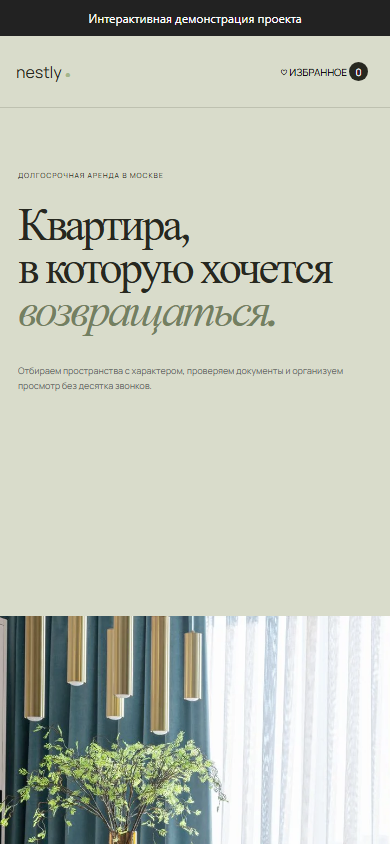
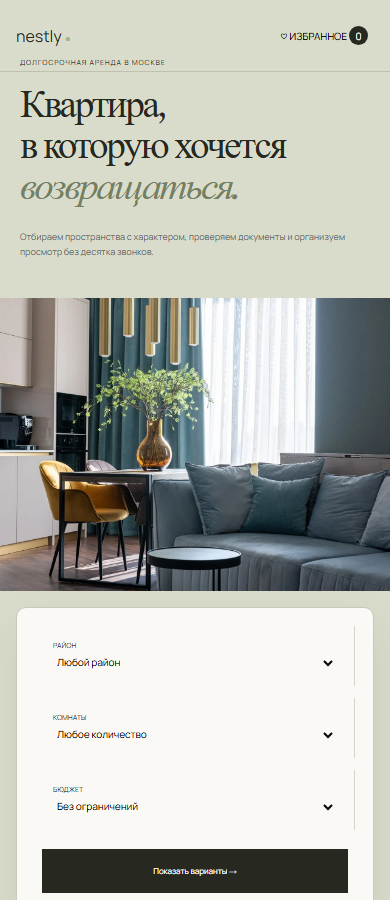
Polish project presentation, mobile layout and browser access

diff --git a/public/styles.css b/public/styles.css
@@ -1,7 +1,9 @@
-:root{font-family:Manrope,sans-serif;color:#272820;background:#f2f0e9;--olive:#738061;--ink:#272820;--line:#d6d3c9}*{box-sizing:border-box}html{scroll-behavior:smooth}body{margin:0;min-width:320px}button,input,select,textarea{font:inherit}.logo{font:600 20px}.logo span{color:#a4b58b;font-size:10px;margin-left:3px}body>header{position:absolute;z-index:3;left:0;right:0;height:72px;display:grid;grid-template-columns:1fr auto 1fr;align-items:center;padding:0 34px;border-bottom:1px solid #39392f2b}nav{display:flex;gap:27px}nav a,.saved{font-size:8px;text-transform:uppercase}.saved{justify-self:end;border:0;background:none}.saved i{display:inline-grid;place-items:center;width:19px;height:19px;border-radius:50%;background:var(--ink);color:white;font-style:normal}.menu{display:none}.hero{position:relative;display:grid;grid-template-columns:1fr 1fr;min-height:700px;background:#d9dccb}.hero-copy{padding:145px 6vw 130px}.hero small,.catalog small,.about small,dialog small{font-size:7px;letter-spacing:.13em}.hero h1{margin:25px 0;font:400 61px/.94 Newsreader;letter-spacing:-.055em}.hero h1 em{color:var(--olive);font-weight:400}.hero-copy p{max-width:430px;color:#66695f;font-size:9px;line-height:1.7}.hero-room{position:relative;overflow:hidden;background:linear-gradient(#d0d4ce 0 65%,#ae967d 66%)}.search{position:absolute;left:6vw;right:6vw;bottom:-38px;z-index:4;display:grid;grid-template-columns:1fr 1fr 1fr 170px;background:#faf9f5;border:1px solid #cac7bd;border-radius:10px;box-shadow:0 18px 45px #5e584c1d;overflow:hidden}.search label{display:grid;gap:5px;padding:15px 18px;border-right:1px solid var(--line);font-size:7px;text-transform:uppercase}.search select{border:0;background:none;outline:0;font-size:10px}.search button,.send{border:7px solid #faf9f5;background:var(--ink);color:white;font-size:8px}.catalog{padding:120px 34px 90px}.catalog>header{display:flex;justify-content:space-between;align-items:end;margin-bottom:35px}.catalog h2,.about h2{margin:8px 0 0;font:400 43px/.94 Newsreader}.catalog header p{color:#797b72;font-size:8px}.layout{display:grid;grid-template-columns:1.2fr .8fr;gap:15px}.listings{display:grid;grid-template-columns:1fr 1fr;gap:12px}.listing{border:1px solid var(--line);background:#fbfaf6;cursor:pointer}.listing-art{position:relative;height:220px;background:var(--accent);overflow:hidden}.listing-art>span{position:absolute;left:10px;bottom:10px;padding:5px 7px;border-radius:5px;background:#f7f4eddf;font-size:6px;text-transform:uppercase}.heart{position:absolute;right:10px;top:10px;width:28px;height:28px;border:0;border-radius:50%;background:#fffddd}.heart.active{background:#283028;color:white}.listing-info{padding:14px}.listing-info>small{color:#888a81;letter-spacing:0}.listing-info h3{margin:5px 0 15px;font:400 18px Newsreader}.specs{display:flex;gap:12px;padding:11px 0;border-top:1px solid #e3e0d8;color:#77796f;font-size:7px}.listing-foot{display:flex;justify-content:space-between;align-items:end}.listing-foot strong{font-size:12px}.listing-foot strong small{font-size:6px;font-weight:400}.listing-foot button{border:0;background:none;font-size:7px;text-decoration:underline}.map{position:sticky;top:15px;height:670px;border:1px solid var(--line);background:#d9dccf;overflow:hidden}.map:before{content:'';position:absolute;inset:0;background:repeating-linear-gradient(25deg,transparent 0 45px,#c5cabb 46px 48px),repeating-linear-gradient(110deg,transparent 0 65px,#cbd0c1 66px 68px)}.river{position:absolute;left:44%;top:-10%;width:20%;height:120%;background:#b9d0d0;transform:rotate(-13deg);border-left:5px solid #d8dccf;border-right:5px solid #d8dccf}.map>i{position:absolute;left:var(--x);top:var(--y);z-index:2;display:grid;place-items:center;width:32px;height:32px;border-radius:50% 50% 50% 4px;transform:rotate(-45deg);background:var(--ink);color:white;font-size:8px;font-style:normal}.map>i::first-letter{transform:rotate(45deg)}.map-label{position:absolute;z-index:1;color:#72786d;font-size:7px;letter-spacing:.15em}.map-label.one{left:12%;top:20%}.map-label.two{left:18%;top:58%}.map-label.three{right:8%;top:44%}.about{padding:100px 6vw;background:#2b352d;color:#eef0e9}.about h2{font-size:50px}.about h2 em{color:#aabc92}.about>div{display:grid;grid-template-columns:repeat(3,1fr);gap:45px;margin-top:65px}.about article{border-top:1px solid #59625b;padding-top:16px}.about article>span{font:italic 16px Newsreader;color:#aabc92}.about h3{margin:30px 0 8px;font:400 18px Newsreader}.about p{margin:0;color:#a1a8a2;font-size:8px;line-height:1.6}dialog{width:min(480px,calc(100% - 24px));border:0;border-radius:15px;padding:0;background:#f7f5ef}dialog::backdrop{background:#172019a3;backdrop-filter:blur(3px)}dialog form{position:relative;display:grid;gap:12px;padding:26px}dialog h2{margin:3px 0 15px;font:400 25px Newsreader}dialog label{display:grid;gap:5px;font-size:8px}dialog input,dialog textarea{border:1px solid var(--line);border-radius:7px;background:white;padding:10px;resize:vertical}.close{position:absolute;right:15px;top:10px;border:0;background:none;font-size:22px}.send{border:0;padding:12px}.success{min-height:12px;margin:0;color:#577158;font-size:8px}@media(max-width:800px){body>header{grid-template-columns:1fr auto;padding:0 16px}nav,.saved{display:none}.menu{display:block;border:0;background:none}.hero{grid-template-columns:1fr}.hero-copy{min-height:580px;padding:125px 18px}.hero h1{font-size:46px}.hero-room{min-height:520px}.search{left:14px;right:14px;grid-template-columns:1fr 1fr;bottom:-100px}.search button{min-height:58px}.catalog{padding:170px 14px 70px}.catalog>header{display:block}.layout{grid-template-columns:1fr}.listings{grid-template-columns:1fr}.listing-art{height:280px}.map{display:none}.about{padding:75px 18px}.about h2{font-size:39px}.about>div{grid-template-columns:1fr;gap:30px}}
+:root{font-family:Manrope,sans-serif;color:#272820;background:#f2f0e9;--olive:#738061;--ink:#272820;--line:#d6d3c9}*{box-sizing:border-box}html{scroll-behavior:smooth}body{margin:0;min-width:320px}button,input,select,textarea{font:inherit}.logo{font:600 20px}.logo span{color:#a4b58b;font-size:10px;margin-left:3px}body>header{position:absolute;z-index:3;left:0;right:0;height:72px;display:grid;grid-template-columns:1fr auto 1fr;align-items:center;padding:0 34px;border-bottom:1px solid #39392f2b}nav{display:flex;gap:27px}nav a,.saved{font-size:8px;text-transform:uppercase}.saved{justify-self:end;border:0;background:none}.saved i{display:inline-grid;place-items:center;width:19px;height:19px;border-radius:50%;background:var(--ink);color:white;font-style:normal}.menu{display:none}.hero{position:relative;display:grid;grid-template-columns:1fr 1fr;min-height:700px;background:#d9dccb}.hero-copy{padding:145px 6vw 130px}.hero small,.catalog small,.about small,dialog small{font-size:7px;letter-spacing:.13em}.hero h1{margin:25px 0;font:400 61px/.94 Newsreader;letter-spacing:-.055em}.hero h1 em{color:var(--olive);font-weight:400}.hero-copy p{max-width:430px;color:#66695f;font-size:9px;line-height:1.7}.hero-room{position:relative;overflow:hidden;background:linear-gradient(#d0d4ce 0 65%,#ae967d 66%)}.search{position:absolute;left:6vw;right:6vw;bottom:-38px;z-index:4;display:grid;grid-template-columns:1fr 1fr 1fr 170px;background:#faf9f5;border:1px solid #cac7bd;border-radius:10px;box-shadow:0 18px 45px #5e584c1d;overflow:hidden}.search label{display:grid;gap:5px;padding:15px 18px;border-right:1px solid var(--line);font-size:7px;text-transform:uppercase}.search select{border:0;background:none;outline:0;font-size:10px}.search button,.send{border:7px solid #faf9f5;background:var(--ink);color:white;font-size:8px}.catalog{padding:120px 34px 90px}.catalog>header{display:flex;justify-content:space-between;align-items:end;margin-bottom:35px}.catalog h2,.about h2{margin:8px 0 0;font:400 43px/.94 Newsreader}.catalog header p{color:#797b72;font-size:8px}.layout{display:grid;grid-template-columns:1.2fr .8fr;gap:15px}.listings{display:grid;grid-template-columns:1fr 1fr;gap:12px}.listing{border:1px solid var(--line);background:#fbfaf6;cursor:pointer}.listing-art{position:relative;height:220px;background:var(--accent);overflow:hidden}.listing-art>span{position:absolute;left:10px;bottom:10px;padding:5px 7px;border-radius:5px;background:#f7f4eddf;font-size:6px;text-transform:uppercase}.heart{position:absolute;right:10px;top:10px;width:28px;height:28px;border:0;border-radius:50%;background:#fffddd}.heart.active{background:#283028;color:white}.listing-info{padding:14px}.listing-info>small{color:#888a81;letter-spacing:0}.listing-info h3{margin:5px 0 15px;font:400 18px Newsreader}.specs{display:flex;gap:12px;padding:11px 0;border-top:1px solid #e3e0d8;color:#77796f;font-size:7px}.listing-foot{display:flex;justify-content:space-between;align-items:end}.listing-foot strong{font-size:12px}.listing-foot strong small{font-size:6px;font-weight:400}.listing-foot button{border:0;background:none;font-size:7px;text-decoration:underline}.map{position:sticky;top:15px;height:670px;border:1px solid var(--line);background:#d9dccf;overflow:hidden}.map:before{content:'';position:absolute;inset:0;background:repeating-linear-gradient(25deg,transparent 0 45px,#c5cabb 46px 48px),repeating-linear-gradient(110deg,transparent 0 65px,#cbd0c1 66px 68px)}.river{position:absolute;left:44%;top:-10%;width:20%;height:120%;background:#b9d0d0;transform:rotate(-13deg);border-left:5px solid #d8dccf;border-right:5px solid #d8dccf}.map>i{position:absolute;left:var(--x);top:var(--y);z-index:2;display:grid;place-items:center;width:32px;height:32px;border-radius:50% 50% 50% 4px;transform:rotate(-45deg);background:var(--ink);color:white;font-size:8px;font-style:normal}.map>i::first-letter{transform:rotate(45deg)}.map-label{position:absolute;z-index:1;color:#72786d;font-size:7px;letter-spacing:.15em}.map-label.one{left:12%;top:20%}.map-label.two{left:18%;top:58%}.map-label.three{right:8%;top:44%}.about{padding:100px 6vw;background:#2b352d;color:#eef0e9}.about h2{font-size:50px}.about h2 em{color:#aabc92}.about>div{display:grid;grid-template-columns:repeat(3,1fr);gap:45px;margin-top:65px}.about article{border-top:1px solid #59625b;padding-top:16px}.about article>span{font:italic 16px Newsreader;color:#aabc92}.about h3{margin:30px 0 8px;font:400 18px Newsreader}.about p{margin:0;color:#a1a8a2;font-size:8px;line-height:1.6}dialog{width:min(480px,calc(100% - 24px));border:0;border-radius:15px;padding:0;background:#f7f5ef}dialog::backdrop{background:#172019a3;backdrop-filter:blur(3px)}dialog form{position:relative;display:grid;gap:12px;padding:26px}dialog h2{margin:3px 0 15px;font:400 25px Newsreader}dialog label{display:grid;gap:5px;font-size:8px}dialog input,dialog textarea{border:1px solid var(--line);border-radius:7px;background:white;padding:10px;resize:vertical}.close{position:absolute;right:15px;top:10px;border:0;background:none;font-size:22px}.send{border:0;padding:12px}.success{min-height:12px;margin:0;color:#577158;font-size:8px}@media(max-width:800px){body>header{grid-template-columns:1fr auto;padding:0 16px}nav,.saved{display:none}.menu{display:block;border:0;background:none}.hero{grid-template-columns:1fr}.hero-copy{min-height:0;padding:48px 20px 30px}.hero h1{font-size:clamp(38px,10vw,56px);line-height:1.05;margin:18px 0}.hero-room{min-height:0;aspect-ratio:4/3}.search{position:static;margin:16px;grid-template-columns:1fr 1fr;gap:12px;padding:18px}.search button{min-height:58px}.catalog{padding:44px 16px 64px}.catalog>header{display:block}.layout{grid-template-columns:1fr}.listings{grid-template-columns:1fr}.listing-art{height:auto;aspect-ratio:4/3}.map{display:none}.about{padding:75px 18px}.about h2{font-size:39px}.about>div{grid-template-columns:1fr;gap:30px}}
 
 @media(max-width:800px){body>header .saved{display:block;font-size:10px}body>header .menu{display:none}}
 
 .hero-room>img{position:absolute;inset:0;display:block;width:100%;height:100%;object-fit:cover}.listing-art>img{display:block;width:100%;height:100%;object-fit:cover}
 
 button:focus-visible,select:focus-visible,input:focus-visible,textarea:focus-visible,a:focus-visible{outline:2px solid var(--olive);outline-offset:3px}
+
+@media(max-width:480px){.search{grid-template-columns:1fr}.search label,.search select{min-width:0;width:100%}.hero-room>img{object-position:center}.listing-info{padding:20px}}

diff --git a/public/index.html b/public/index.html
@@ -1,2 +1,2 @@
 <!doctype html><html lang="ru"><head><meta charset="UTF-8"><meta name="viewport" content="width=device-width,initial-scale=1"><meta name="description" content="Nestly — долгосрочная аренда квартир без лишнего шума"><link rel="preconnect" href="https://fonts.googleapis.com"><link rel="preconnect" href="https://fonts.gstatic.com" crossorigin><link href="https://fonts.googleapis.com/css2?family=Manrope:wght@400;500;600&family=Newsreader:ital,opsz,wght@0,6..72,400;1,6..72,400&display=swap" rel="stylesheet"><link rel="stylesheet" href="styles.css"><title>Nestly — квартиры для жизни</title></head><body>
-<div role="note" style="padding:9px 16px;background:#222;color:#fff;font:12px/1.5 system-ui;text-align:center">Интерактивная демонстрация проекта</div><header><a class="logo">nestly<span>●</span></a><nav><a href="#catalog">Квартиры</a><a href="#about">Как это работает</a></nav><button class="saved">♡ Избранное <i id="saved-count">0</i></button><button class="menu" aria-label="Перейти к поиску квартир">Поиск</button></header><main><section class="hero"><div class="hero-copy"><small>ДОЛГОСРОЧНАЯ АРЕНДА В МОСКВЕ</small><h1>Квартира,<br>в которую хочется<br><em>возвращаться.</em></h1><p>Отбираем пространства с характером, проверяем документы и организуем просмотр без десятка звонков.</p></div><div class="hero-room"><img src="photos/hero.webp" alt="Светлая гостиная с диваном и обеденной зоной" width="1440" height="960" fetchpriority="high"></div><form class="search"><label>Район<select id="district"><option value="all">Любой район</option><option>Хамовники</option><option>Пресня</option><option>Чистые пруды</option><option>Даниловский</option><option>Раменки</option><option>Басманный</option></select></label><label>Комнаты<select id="rooms"><option value="0">Любое количество</option><option value="1">От 1 комнаты</option><option value="2">От 2 комнат</option><option value="3">От 3 комнат</option></select></label><label>Бюджет<select id="price"><option value="0">Без ограничений</option><option value="100000">до 100 000 ₽</option><option value="150000">до 150 000 ₽</option><option value="200000">до 200 000 ₽</option></select></label><button>Показать варианты →</button></form></section><section class="catalog" id="catalog"><header><div><small>ПОДХОДЯЩИЕ ВАРИАНТЫ</small><h2>Пространства<br>для жизни</h2></div><p><span id="result-count">—</span> объектов · проверены командой Nestly</p></header><div class="layout"><div class="listings" id="listings"></div><div class="map"><span class="river"></span><i style="--x:22%;--y:34%">2</i><i style="--x:58%;--y:25%">1</i><i style="--x:68%;--y:62%">3</i><i style="--x:38%;--y:72%">1</i><div class="map-label one">ПРЕСНЯ</div><div class="map-label two">ХАМОВНИКИ</div><div class="map-label three">БАСМАННЫЙ</div></div></div></section><section class="about" id="about"><small>СПОКОЙНАЯ АРЕНДА</small><h2>Мы убрали из поиска квартиры<br><em>всё лишнее.</em></h2><div><article><span>01</span><h3>Только живые объявления</h3><p>Проверяем доступность и документы до публикации.</p></article><article><span>02</span><h3>Один менеджер</h3><p>Организует просмотры и остаётся на связи до заселения.</p></article><article><span>03</span><h3>Прозрачные условия</h3><p>Показываем все платежи и заранее проверяем договор.</p></article></div></section></main><dialog><form id="inquiry"><button type="button" class="close">×</button><small>ЗАПИСАТЬСЯ НА ПРОСМОТР</small><h2 id="dialog-title">Квартира</h2><input type="hidden" name="listingId"><label>Ваше имя<input name="name" required placeholder="Роман"></label><label>Телефон<input name="phone" required placeholder="+7 999 000-00-00"></label><label>Комментарий<textarea name="message" rows="3" placeholder="Когда вам удобно посмотреть квартиру?"></textarea></label><button class="send">Отправить заявку →</button><p class="success"></p></form></dialog><script src="app.js"></script></body></html>
+<header><a class="logo">nestly<span>●</span></a><nav><a href="#catalog">Квартиры</a><a href="#about">Как это работает</a></nav><button class="saved">♡ Избранное <i id="saved-count">0</i></button><button class="menu" aria-label="Перейти к поиску квартир">Поиск</button></header><main><section class="hero"><div class="hero-copy"><small>ДОЛГОСРОЧНАЯ АРЕНДА В МОСКВЕ</small><h1>Квартира,<br>в которую хочется<br><em>возвращаться.</em></h1><p>Отбираем пространства с характером, проверяем документы и организуем просмотр без десятка звонков.</p></div><div class="hero-room"><img src="photos/hero.webp" alt="Светлая гостиная с диваном и обеденной зоной" width="1440" height="960" fetchpriority="high"></div><form class="search"><label>Район<select id="district"><option value="all">Любой район</option><option>Хамовники</option><option>Пресня</option><option>Чистые пруды</option><option>Даниловский</option><option>Раменки</option><option>Басманный</option></select></label><label>Комнаты<select id="rooms"><option value="0">Любое количество</option><option value="1">От 1 комнаты</option><option value="2">От 2 комнат</option><option value="3">От 3 комнат</option></select></label><label>Бюджет<select id="price"><option value="0">Без ограничений</option><option value="100000">до 100 000 ₽</option><option value="150000">до 150 000 ₽</option><option value="200000">до 200 000 ₽</option></select></label><button>Показать варианты →</button></form></section><section class="catalog" id="catalog"><header><div><small>ПОДХОДЯЩИЕ ВАРИАНТЫ</small><h2>Пространства<br>для жизни</h2></div><p><span id="result-count">—</span> объектов · проверены командой Nestly</p></header><div class="layout"><div class="listings" id="listings"></div><div class="map"><span class="river"></span><i style="--x:22%;--y:34%">2</i><i style="--x:58%;--y:25%">1</i><i style="--x:68%;--y:62%">3</i><i style="--x:38%;--y:72%">1</i><div class="map-label one">ПРЕСНЯ</div><div class="map-label two">ХАМОВНИКИ</div><div class="map-label three">БАСМАННЫЙ</div></div></div></section><section class="about" id="about"><small>СПОКОЙНАЯ АРЕНДА</small><h2>Мы убрали из поиска квартиры<br><em>всё лишнее.</em></h2><div><article><span>01</span><h3>Только живые объявления</h3><p>Проверяем доступность и документы до публикации.</p></article><article><span>02</span><h3>Один менеджер</h3><p>Организует просмотры и остаётся на связи до заселения.</p></article><article><span>03</span><h3>Прозрачные условия</h3><p>Показываем все платежи и заранее проверяем договор.</p></article></div></section></main><dialog><form id="inquiry"><button type="button" class="close">×</button><small>ЗАПИСАТЬСЯ НА ПРОСМОТР</small><h2 id="dialog-title">Квартира</h2><input type="hidden" name="listingId"><label>Ваше имя<input name="name" required placeholder="Роман"></label><label>Телефон<input name="phone" required placeholder="+7 999 000-00-00"></label><label>Комментарий<textarea name="message" rows="3" placeholder="Когда вам удобно посмотреть квартиру?"></textarea></label><button class="send">Отправить заявку →</button><p class="success"></p></form></dialog><script src="app.js"></script></body></html>

diff --git a/demo/browser.js b/demo/browser.js
@@ -1,0 +1,92 @@
+// Browser-only adapter, loaded exclusively by scripts/build_demo.py.
+// ponytail: state lasts for one page session; use the documented server for shared, durable data.
+(() => {
+  const state = structuredClone(globalThis.DEMO_SEED);
+  const fail = (message, status = 400) => {
+    throw Object.assign(new Error(message), { status });
+  };
+  const text = (value, min = 1, max = 200) => {
+    if (
+      typeof value !== "string" ||
+      value.trim().length < min ||
+      value.trim().length > max
+    )
+      fail("Проверьте введённые данные");
+    return value.trim();
+  };
+  const json = (value, status = 200) =>
+    new Response(JSON.stringify(value), {
+      status,
+      headers: { "Content-Type": "application/json" },
+    });
+  const originalFetch = globalThis.fetch.bind(globalThis);
+  globalThis.fetch = async (input, options = {}) => {
+    const url = new URL(input, globalThis.location.href);
+    if (
+      url.origin !== globalThis.location.origin ||
+      !url.pathname.startsWith("/api/")
+    )
+      return originalFetch(input, options);
+    if (options.signal?.aborted)
+      throw new DOMException("Aborted", "AbortError");
+    try {
+      return await handle(
+        url,
+        options.method || "GET",
+        options.body ? JSON.parse(options.body) : {},
+        new Headers(options.headers),
+      );
+    } catch (error) {
+      return json(
+        { message: error.message, detail: error.message },
+        error.status || 400,
+      );
+    }
+  };
+  globalThis.PORTFOLIO_DEMO = true;
+
+  let inquiries = 0;
+  const seen = new Map();
+  async function handle(url, method, body, headers) {
+    if (url.pathname === "/api/listings" && method === "GET") {
+      const q = url.searchParams;
+      return json(
+        state["/api/listings"]
+          .filter(
+            (x) =>
+              (!q.get("district") ||
+                q.get("district") === "all" ||
+                x.district === q.get("district")) &&
+              x.rooms >= Number(q.get("rooms") || 0) &&
+              (!Number(q.get("maxPrice")) ||
+                x.price <= Number(q.get("maxPrice"))),
+          )
+          .sort((a, b) => a.price - b.price || a.id - b.id),
+      );
+    }
+    if (url.pathname === "/api/inquiries" && method === "POST") {
+      text(body.name, 2, 80);
+      if (!/^[+()\d\s-]{7,32}$/.test(body.phone || ""))
+        fail("Проверьте телефон");
+      if (
+        !state["/api/listings"].some(
+          (x) => x.id === body.listingId && x.available,
+        )
+      )
+        fail("Квартира недоступна", 404);
+      const key = headers.get("Idempotency-Key"),
+        serialized = JSON.stringify(body);
+      if (key && seen.has(key)) {
+        const previous = seen.get(key);
+        if (previous.body !== serialized)
+          fail("Запрос с этим ключом уже обработан", 409);
+        return json(previous.result);
+      }
+      if (inquiries >= 20) fail("Перезагрузите страницу для новой сессии", 429);
+      const result = { id: ++inquiries, status: "saved_locally" };
+      if (key) seen.set(key, { body: serialized, result });
+      return json(result, 201);
+    }
+    fail("Маршрут недоступен в браузерной версии", 404);
+  }
+})();

diff --git a/scripts/build_demo.py b/scripts/build_demo.py
@@ -1,0 +1,30 @@
+"""Build an isolated static demo; never reads a runtime database or changes the API."""
+import json
+import shutil
+from pathlib import Path
+root = Path(__file__).resolve().parents[1]
+source = root / 'public'
+output = root / '_site'
+output.mkdir(exist_ok=True)
+shutil.copytree(source, output, dirs_exist_ok=True)
+seed = json.loads((root/'demo/seed.json').read_text(encoding='utf8'))
+(output/'seed.js').write_text('globalThis.DEMO_SEED = '+json.dumps(seed,ensure_ascii=False)+';\n',encoding='utf8')
+shutil.copyfile(root/'demo/browser.js', output/'demo.js')
+index = output/'index.html'
+html = index.read_text(encoding='utf8').replace('/static/','')
+html = html.replace('<script ', '<script src="seed.js"></script><script src="demo.js"></script><script ', 1)
+html = html.replace('<script>', '<script src="seed.js"></script><script src="demo.js"></script><script>', 1) if 'src="seed.js"' not in html else html
+html = html.replace('</body>', '<footer class="browser-scope" style="padding:16px;text-align:center;font:12px/1.5 system-ui">Изменения в этой версии хранятся в текущей вкладке. <a href="https://github.com/memorim/nestly-apartment-rentals#readme">Исходный код и запуск сервера</a></footer></body>')
+html = html.replace('href="/"','href="./"').replace('href="/docs"','href="https://github.com/memorim/nestly-apartment-rentals#readme"')
+html = html.replace('Start watching','Добавить в текущую сессию').replace('Start monitoring →','Добавить в текущую сессию →')
+html = html.replace('id="check-now">Проверить сейчас','id="check-now">О сетевых проверках')
+index.write_text(html,encoding='utf8')
+app=output/'app.js'
+if app.exists():
+ text=app.read_text(encoding='utf8')
+ text=text.replace('Run check','О сетевой проверке').replace(' is now being watched.',' добавлен в текущую сессию; сетевые проверки доступны при запуске сервера.')
+ text=text.replace('Капсула зашифрована и отправлена на орбиту.','Капсула зашифрована в памяти вкладки. Сохранится до перезагрузки страницы.')
+ text=text.replace('Демо-заявка сохранена. Уведомления менеджеру не отправляются.','Заявка сохранена в текущей вкладке. Контакты не отправлены менеджеру.')
+ text=text.replace('Демо-заказ №','Заказ в текущей вкладке №')
+ app.write_text(text,encoding='utf8')
+print('Built isolated browser demo:', root.name)

diff --git a/README.md b/README.md
@@ -1,14 +1,12 @@
-# Nestly — каталог квартир для аренды
+# Nestly - каталог квартир для аренды
 
 Поиск квартир по району, количеству комнат и бюджету, избранное и заявка на просмотр.
 
-
+[Открыть проект](https://memorim.github.io/nestly-apartment-rentals/)
 
 ![Компьютерная версия](docs/desktop.png)
 
 <img src="docs/mobile.png" width="320" alt="Мобильная версия">
-
-[Короткая демонстрация](docs/demo.gif)
 
 ## Возможности
 
@@ -25,9 +23,9 @@ JavaScript, Express, Zod, встроенный SQLite в Node.js и HTML/CSS.
 
 - SQL-запросы связывают пользовательские значения через параметры. Перед сохранением заявки проверяется доступность квартиры.
 - API по умолчанию слушает loopback; ошибки JSON не раскрывают стек сервера.
-- Фильтры ограничены диапазонами; список отсортирован по цене и ID и поддерживает `limit` (1–100) и `offset`.
+- Фильтры ограничены диапазонами; список отсортирован по цене и ID и поддерживает `limit` (1-100) и `offset`.
 - Заявка вставляется одним `INSERT ... SELECT` только для доступной квартиры. `Idempotency-Key` повторяет результат прежней операции; при изменении данных с тем же ключом возвращается 409. Форма сохраняет ключ при сетевой ошибке.
-- Контакты ограничены длиной и форматом; JSON — 16 КБ. В одном процессе допускаются 20 попыток отправки в минуту, затем 429 с Retry-After. Необработанные ошибки не пишут контакты в журнал.
+- Контакты ограничены длиной и форматом; JSON - 16 КБ. В одном процессе допускаются 20 попыток отправки в минуту, затем 429 с Retry-After. Необработанные ошибки не пишут контакты в журнал.
 
 ## Локальный запуск
 
@@ -75,3 +73,9 @@ CI устанавливает зависимости по зафиксирова
 ## Документация
 
 [Результаты аудита](docs/AUDIT_2026_10.md) · [Техническая документация](docs/TECHNICAL.md) · [Пример запроса и ответа](docs/API_EXAMPLE.md) · [История изменений](CHANGELOG.md)
+
+## Версия в браузере
+
+Открывается без установки. Изменения изолированы в памяти текущей вкладки и сбрасываются при перезагрузке. Серверные гарантии и SQLite относятся к локальному запуску, описанному выше.
+
+Сборка: `python scripts/build_demo.py`. Проверка адаптера: `node --test demo/demo.test.mjs`.
